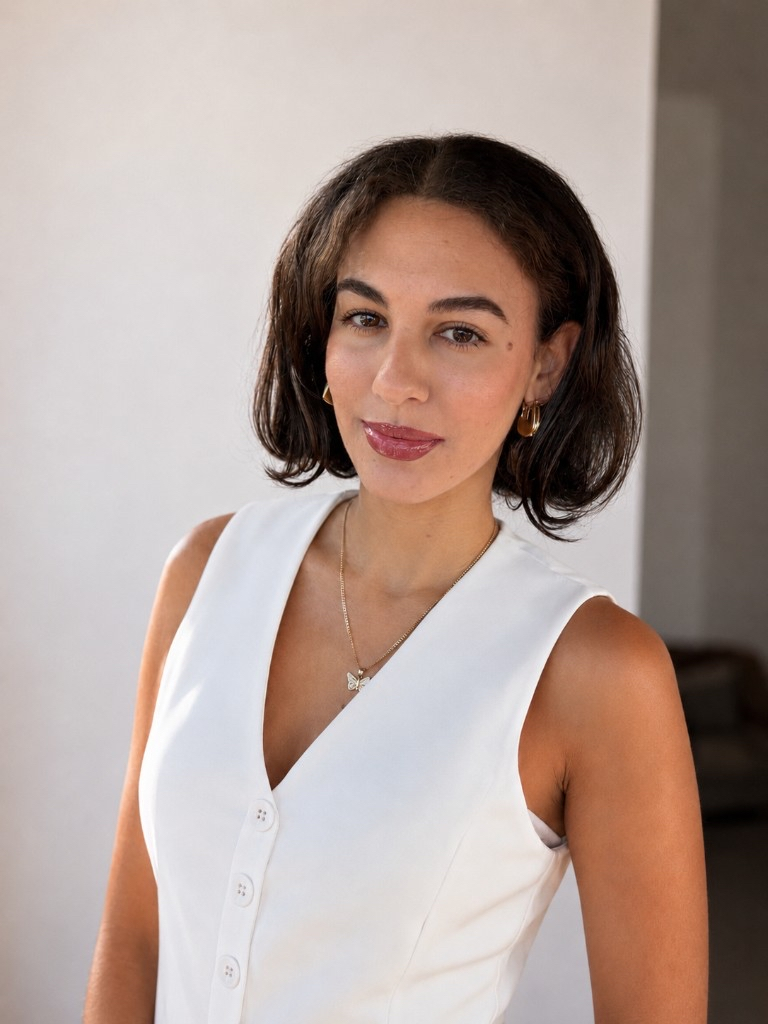
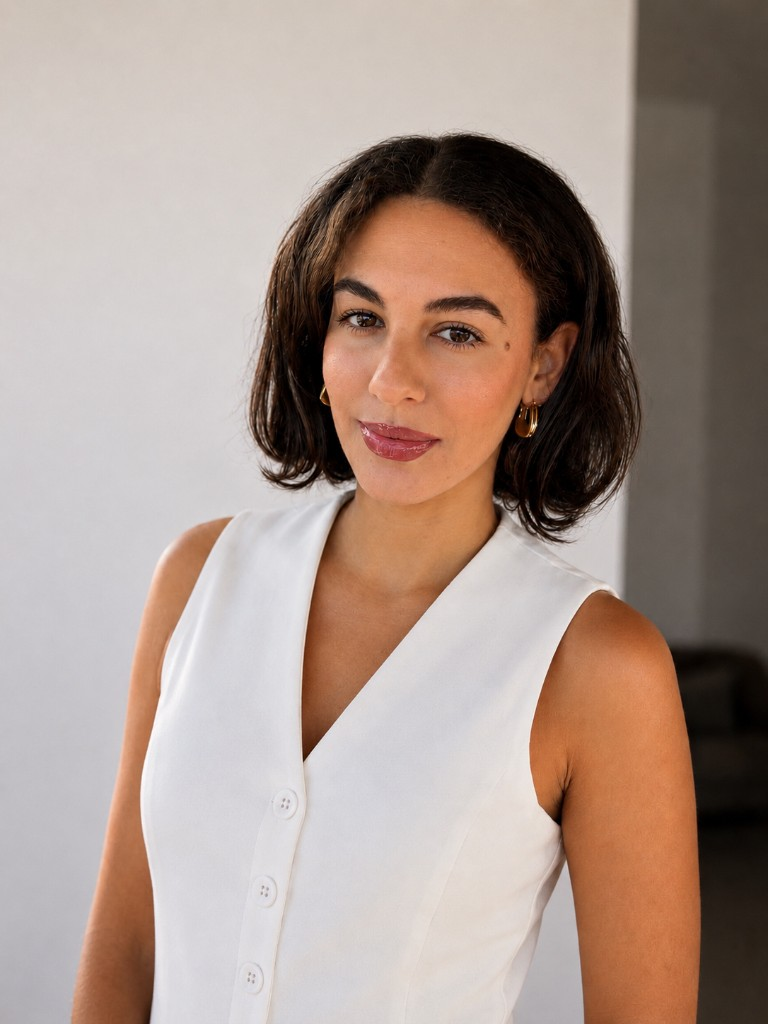
Add secondary button style; update CTAs & images
Introduce a new .btn-secondary style (with hover state) in globals.css to provide a distinct secondary CTA appearance. Extend CtaButton to accept an "accent" variant and map variants so "secondary" -> btn-secondary, "accent"/"teal" -> btn-teal, with ghost as the fallback.

Update About: switch image to siteConfig.images.profile, increase dimensions/quality, mark unoptimized, add sizes and adjust object-position; change Check icon color to text-accent-blue. Update Hero: use the new secondary CTA (with showArrow) instead of ghost and adjust hero image object-position. Replace the profile image binary to match the updated asset.

These changes add a new secondary CTA visual, improve profile image fidelity and alignment, and wire up the new button variant across the UI.

diff --git a/src/components/sections/about.tsx b/src/components/sections/about.tsx
@@ -18,11 +18,14 @@ export function About() {
           <div className="soft-sphere -left-8 -top-8 size-24 opacity-70" />
           <div className="relative overflow-hidden rounded-[1.75rem] border border-border bg-white shadow-md">
             <Image
-              src={siteConfig.images.office}
+              src={siteConfig.images.profile}
               alt={siteConfig.founder}
-              width={600}
-              height={750}
-              className="aspect-[4/5] w-full object-cover"
+              width={768}
+              height={1024}
+              quality={100}
+              unoptimized
+              className="aspect-[4/5] w-full object-cover object-[center_22%]"
+              sizes="(max-width: 1024px) 90vw, 480px"
             />
           </div>
         </div>
@@ -45,7 +48,7 @@ export function About() {
           <ul className="mt-8 grid gap-3 sm:grid-cols-2">
             {t.about.experience.map((item) => (
               <li key={item} className="flex items-start gap-2.5 text-sm">
-                <Check className="mt-0.5 size-4 shrink-0 text-teal" />
+                <Check className="mt-0.5 size-4 shrink-0 text-accent-blue" />
                 {item}
               </li>
             ))}

diff --git a/src/components/cta-button.tsx b/src/components/cta-button.tsx
@@ -4,7 +4,7 @@ import { siteConfig } from "@/lib/site-config";
 import { cn } from "@/lib/utils";
 
 type CtaButtonProps = {
-  variant?: "primary" | "secondary" | "teal" | "ghost";
+  variant?: "primary" | "secondary" | "accent" | "teal" | "ghost";
   size?: "default" | "lg";
   className?: string;
   children?: React.ReactNode;
@@ -25,11 +25,13 @@ export function CtaButton({
   const variantClass =
     variant === "primary"
       ? "btn-primary"
-      : variant === "teal"
-        ? "btn-teal"
-        : variant === "ghost"
-          ? "btn-ghost"
-          : "btn-ghost";
+      : variant === "secondary"
+        ? "btn-secondary"
+        : variant === "accent" || variant === "teal"
+          ? "btn-teal"
+          : variant === "ghost"
+            ? "btn-ghost"
+            : "btn-ghost";
 
   const sizeClass = size === "lg" ? "h-12 px-7 text-sm" : "h-10 px-5 text-sm";
 

diff --git a/src/components/sections/hero.tsx b/src/components/sections/hero.tsx
@@ -165,7 +165,7 @@ export function Hero() {
               <CtaButton href="#booking" showArrow className="!h-11 !px-7">
                 {t.hero.primaryCta}
               </CtaButton>
-              <CtaButton variant="ghost" href="#services" className="!h-11 !px-6">
+              <CtaButton variant="secondary" href="#services" showArrow className="!h-11 !px-7">
                 {t.hero.secondaryCta}
               </CtaButton>
             </div>
@@ -232,7 +232,7 @@ export function Hero() {
                   quality={100}
                   unoptimized
                   sizes="(max-width: 1024px) 70vw, 420px"
-                  className="aspect-[4/5] w-full object-cover object-[center_14%]"
+                  className="aspect-[4/5] w-full object-cover object-[center_22%]"
                 />
               </div>
             </div>

diff --git a/src/app/globals.css b/src/app/globals.css
@@ -386,6 +386,21 @@
     transform: translateY(-1px);
   }
 
+  .btn-secondary {
+    @apply inline-flex items-center justify-center gap-2 rounded-full border-2 px-6 py-3 text-sm font-semibold transition-all duration-200;
+    border-color: rgb(30 58 95 / 0.28);
+    background: linear-gradient(180deg, #ffffff 0%, #eef2fb 100%);
+    color: var(--navy);
+    box-shadow: 0 4px 14px rgb(59 79 216 / 0.1);
+  }
+
+  .btn-secondary:hover {
+    border-color: rgb(59 79 216 / 0.45);
+    background: linear-gradient(180deg, #ffffff 0%, #dde6f8 100%);
+    box-shadow: 0 8px 22px rgb(59 79 216 / 0.14);
+    transform: translateY(-1px);
+  }
+
   .btn-ghost {
     @apply inline-flex items-center justify-center gap-2 rounded-full border bg-white/80 px-6 py-3 text-sm font-semibold transition-all duration-200;
     border-color: var(--border-warm);
